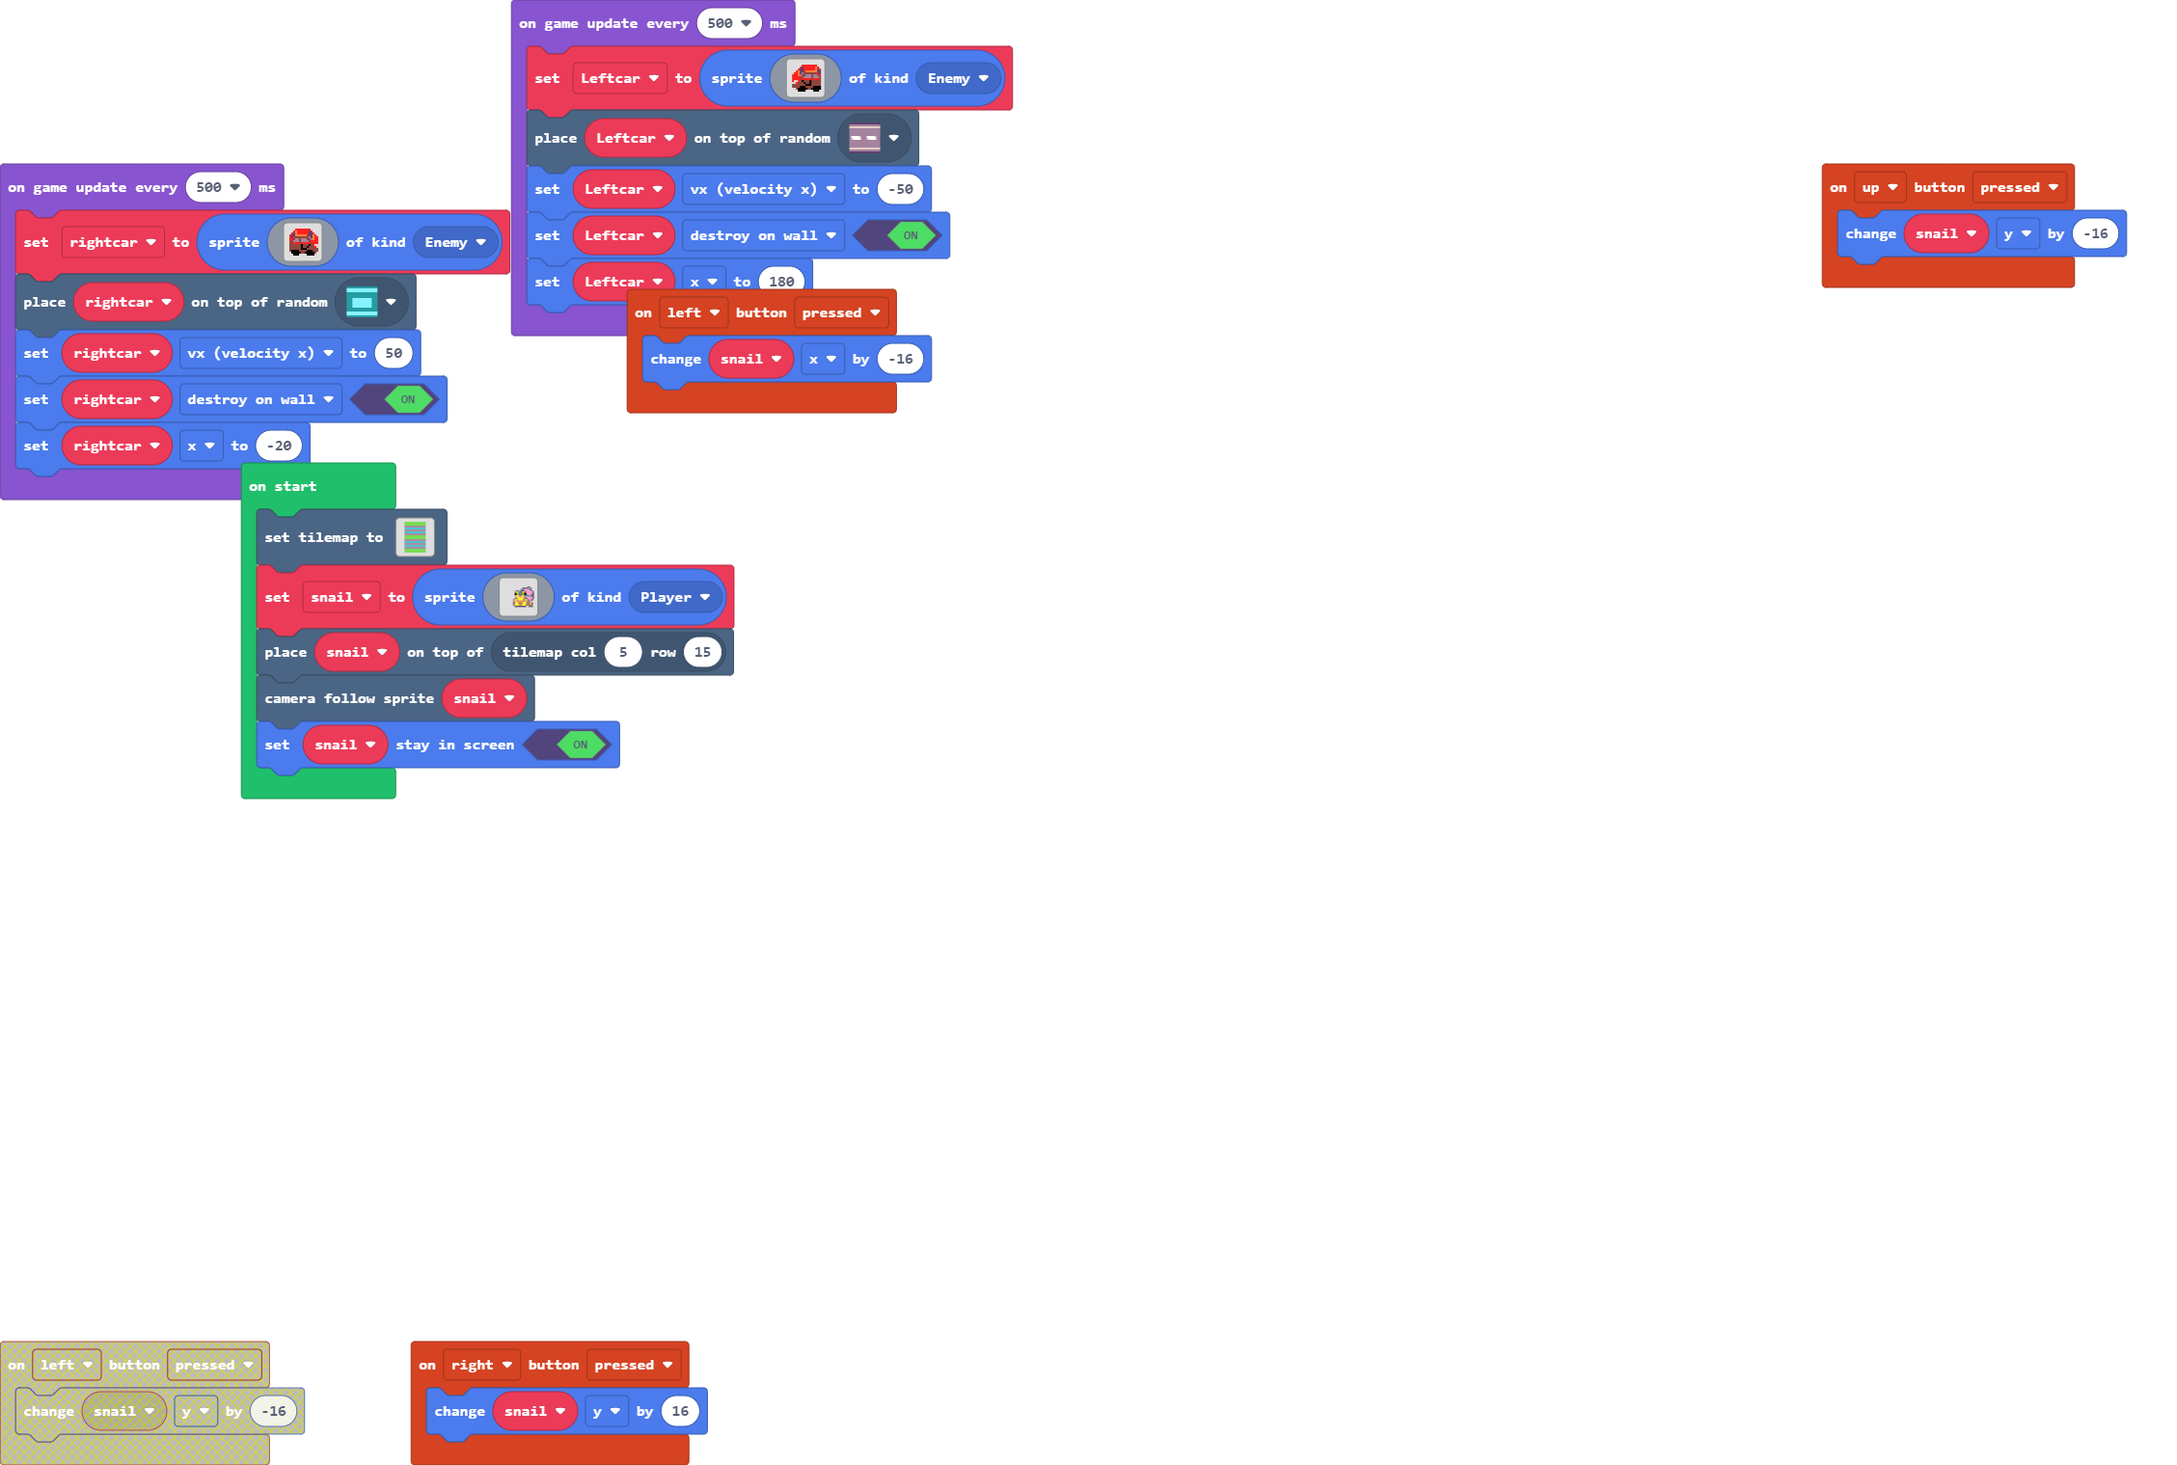
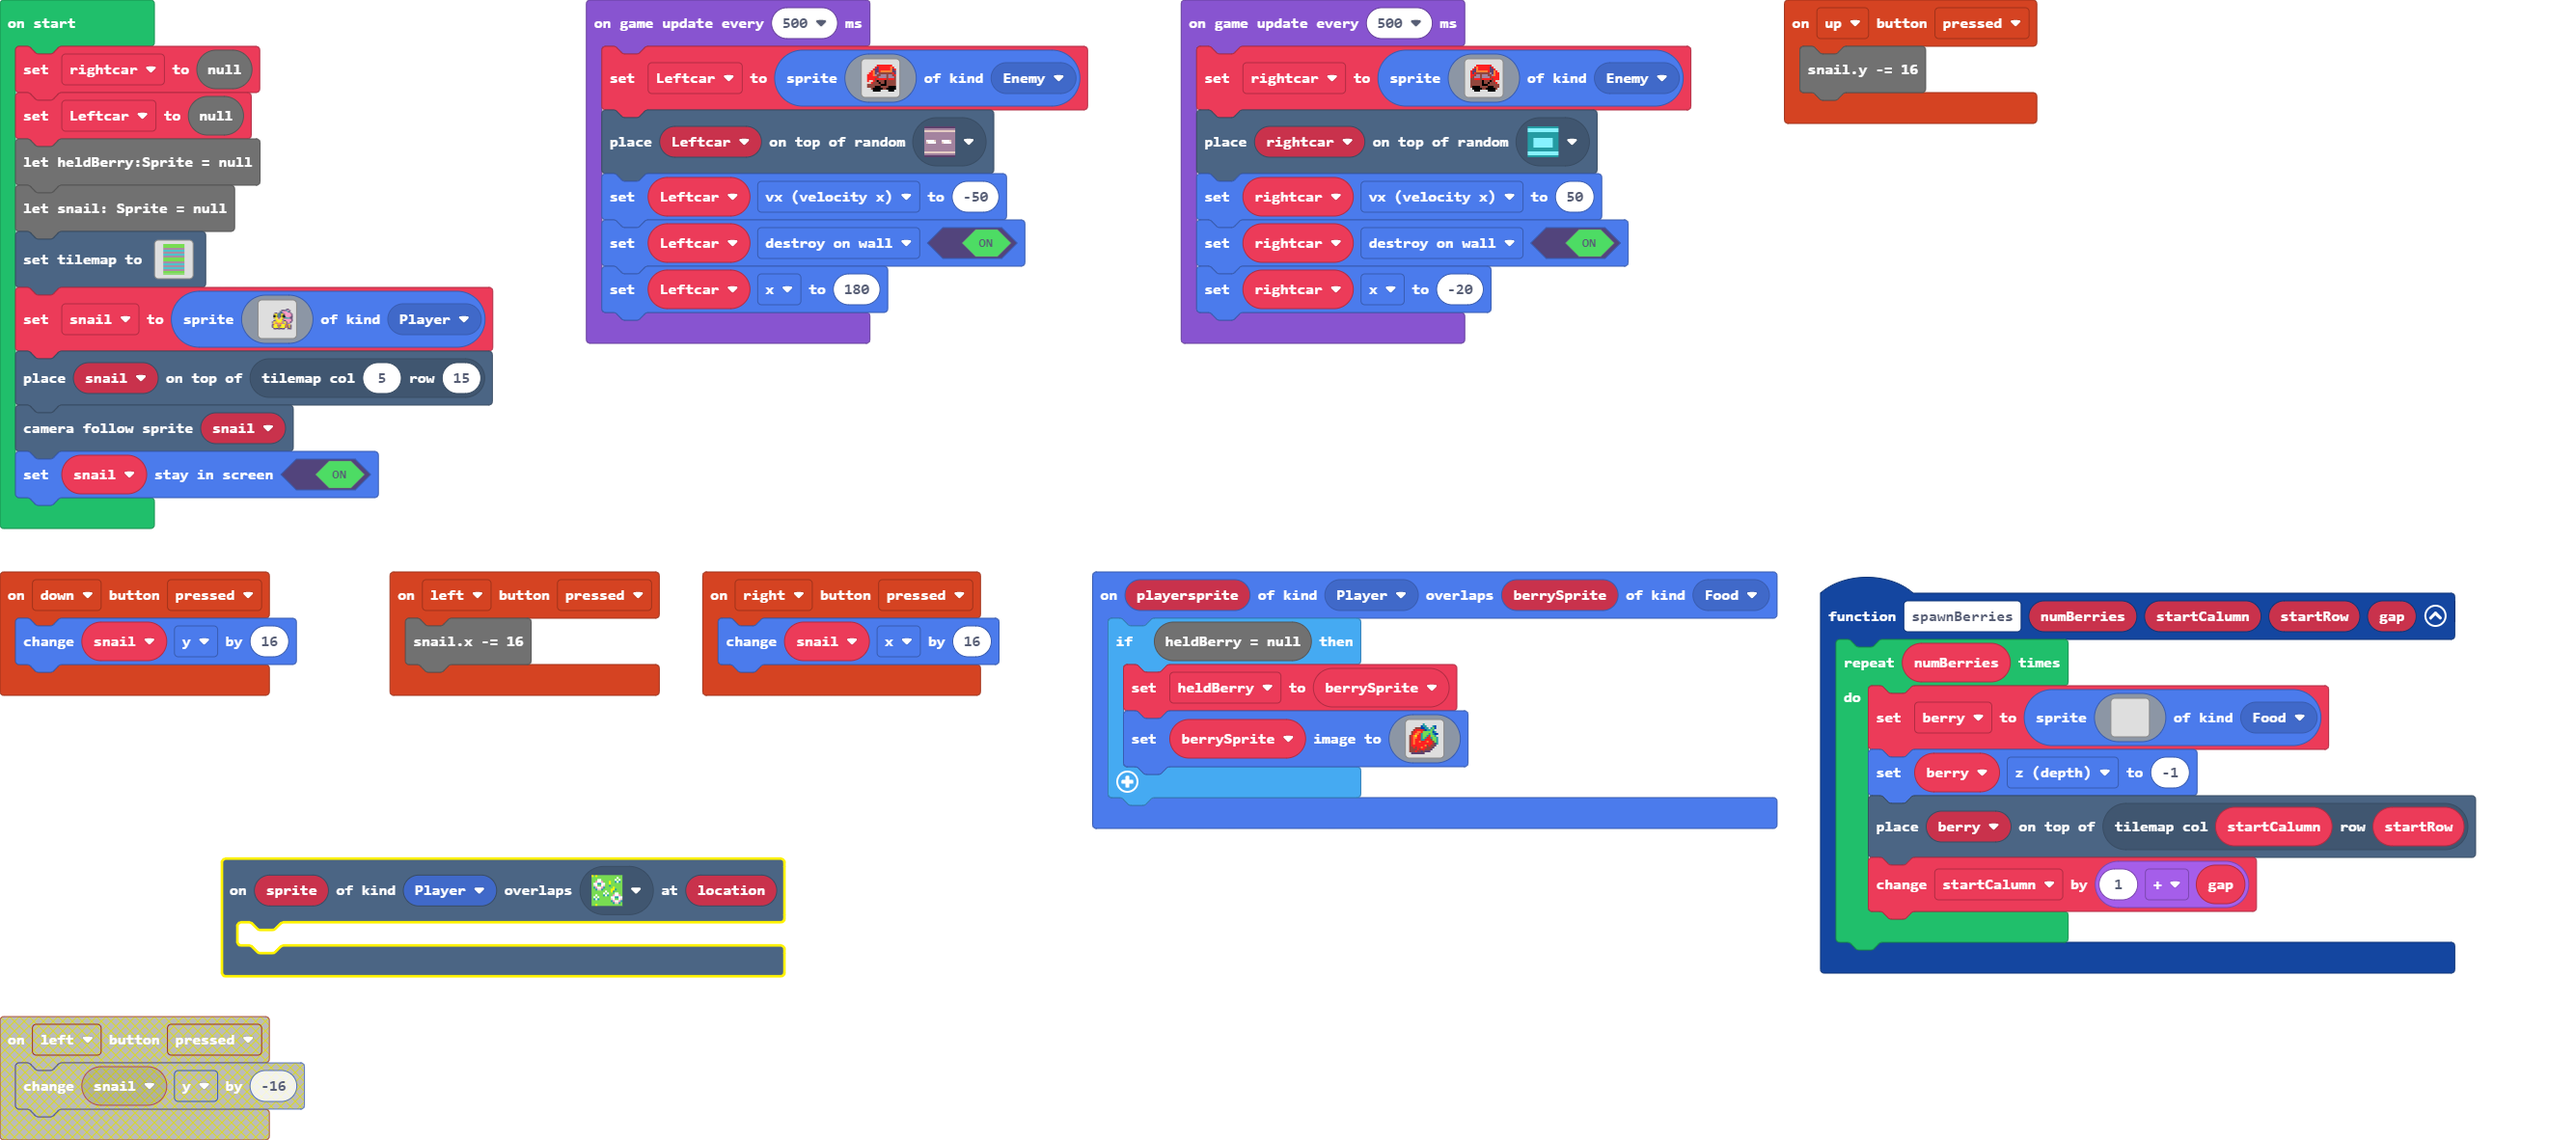
Update main.blocks, main.ts, tilemap.g.jres, tilemap.g.ts

diff --git a/main.ts b/main.ts
@@ -10,9 +10,66 @@ controller.right.onEvent(ControllerButtonEvent.Pressed, function () {
 controller.down.onEvent(ControllerButtonEvent.Pressed, function () {
     snail.y += 16
 })
-
-let rightcar: Sprite = null
-let Leftcar: Sprite = null
+scene.onOverlapTile(SpriteKind.Player, sprites.castle.tileGrass2, function (sprite, location) {
+if(heldBerry != null) {
+    tiles.placeOnTile(heldBerry, location)
+    heldBerry.setImage(img``)
+    heldBerry = null
+}
+})
+function spawnBerries (numBerries: number, startCalumn: number, startRow: number, gap: number) {
+    for (let index = 0; index < numBerries; index++) {
+        berry = sprites.create(img`
+            . . . . . . . 6 . . . . . . . .
+            . . . . . . 8 6 6 . . . 6 8 . .
+            . . . e e e 8 8 6 6 . 6 7 8 . .
+            . . e 2 2 2 2 e 8 6 6 7 6 . . .
+            . e 2 2 4 4 2 7 7 7 7 7 8 6 . .
+            . e 2 4 4 2 6 7 7 7 6 7 6 8 8 .
+            e 2 4 5 2 2 6 7 7 6 2 7 7 6 . .
+            e 2 4 4 2 2 6 7 6 2 2 6 7 7 6 .
+            e 2 4 2 2 2 6 6 2 2 2 e 7 7 6 .
+            e 2 4 2 2 4 2 2 2 4 2 2 e 7 6 .
+            e 2 4 2 2 2 2 2 2 2 2 2 e c 6 .
+            e 2 2 2 2 2 2 2 4 e 2 e e c . .
+            e e 2 e 2 2 4 2 2 e e e c . . .
+            e e e e 2 e 2 2 e e e c . . . .
+            e e e 2 e e c e c c c . . . . .
+            . c c c c c c c . . . . . . . .
+        `, SpriteKind.Food)
+        berry.z = -1
+        tiles.placeOnTile(berry, tiles.getTileLocation(startCalumn, startRow))
+        startCalumn += 1 + gap
+    }
+}
+sprites.onOverlap(SpriteKind.Player, SpriteKind.Food, function (playersprite, berrySprite) {
+    if (heldBerry == null) {
+        heldBerry = berrySprite
+        berrySprite.setImage(img`
+            . . . . . . . 6 . . . . . . . .
+            . . . . . . 8 6 6 . . . 6 8 . .
+            . . . e e e 8 8 6 6 . 6 7 8 . .
+            . . e 2 2 2 2 e 8 6 6 7 6 . . .
+            . e 2 2 4 4 2 7 7 7 7 7 8 6 . .
+            . e 2 4 4 2 6 7 7 7 6 7 6 8 8 .
+            e 2 4 5 2 2 6 7 7 6 2 7 7 6 . .
+            e 2 4 4 2 2 6 7 6 2 2 6 7 7 6 .
+            e 2 4 2 2 2 6 6 2 2 2 e 7 7 6 .
+            e 2 4 2 2 4 2 2 2 4 2 2 e 7 6 .
+            e 2 4 2 2 2 2 2 2 2 2 2 e c 6 .
+            e 2 2 2 2 2 2 2 4 e 2 e e c . .
+            e e 2 e 2 2 4 2 2 e e e c . . .
+            e e e e 2 e 2 2 e e e c . . . .
+            e e e 2 e e c e c c c . . . . .
+            . c c c c c c c . . . . . . . .
+        `)
+    }
+})
+let startCalumn = 0
+let berry: Sprite = null
+let rightcar = null
+let Leftcar = null
+let heldBerry:Sprite = null
 let snail: Sprite = null
 tiles.setTilemap(tilemap`level1`)
 snail = sprites.create(img`
@@ -84,3 +141,5 @@ game.onUpdateInterval(500, function () {
     rightcar.setFlag(SpriteFlag.DestroyOnWall, true)
     rightcar.x = -20
 })
+
+spawnBerries(4,  2,  1,  1,)

diff --git a/tilemap.g.ts b/tilemap.g.ts
@@ -40,7 +40,7 @@ namespace myTiles {
 . . . . . . . . . . . 
 `, [myTiles.transparency16,sprites.castle.tileGrass3,sprites.castle.tileGrass2,sprites.vehicle.roadHorizontal,sprites.castle.tileGrass1,myTiles.tile2,myTiles.tile3,sprites.castle.saplingPine], TileScale.Sixteen);
             case "level1":
[2 lines of base64/hex data omitted]
 . . . . . . . . . . . 
 . . . . . . . . . . . 
 . . . . . . . . . . . 
@@ -57,7 +57,7 @@ namespace myTiles {
 . . . . . . . . . . . 
 . . . . . . . . . . . 
 . . . . . . . . . . . 
-`, [myTiles.transparency16,myTiles.tile1,myTiles.tile7,sprites.vehicle.roadHorizontal], TileScale.Sixteen);
+`, [myTiles.transparency16,myTiles.tile1,myTiles.tile7,sprites.vehicle.roadHorizontal,sprites.castle.tileGrass2], TileScale.Sixteen);
         }
         return null;
     })
